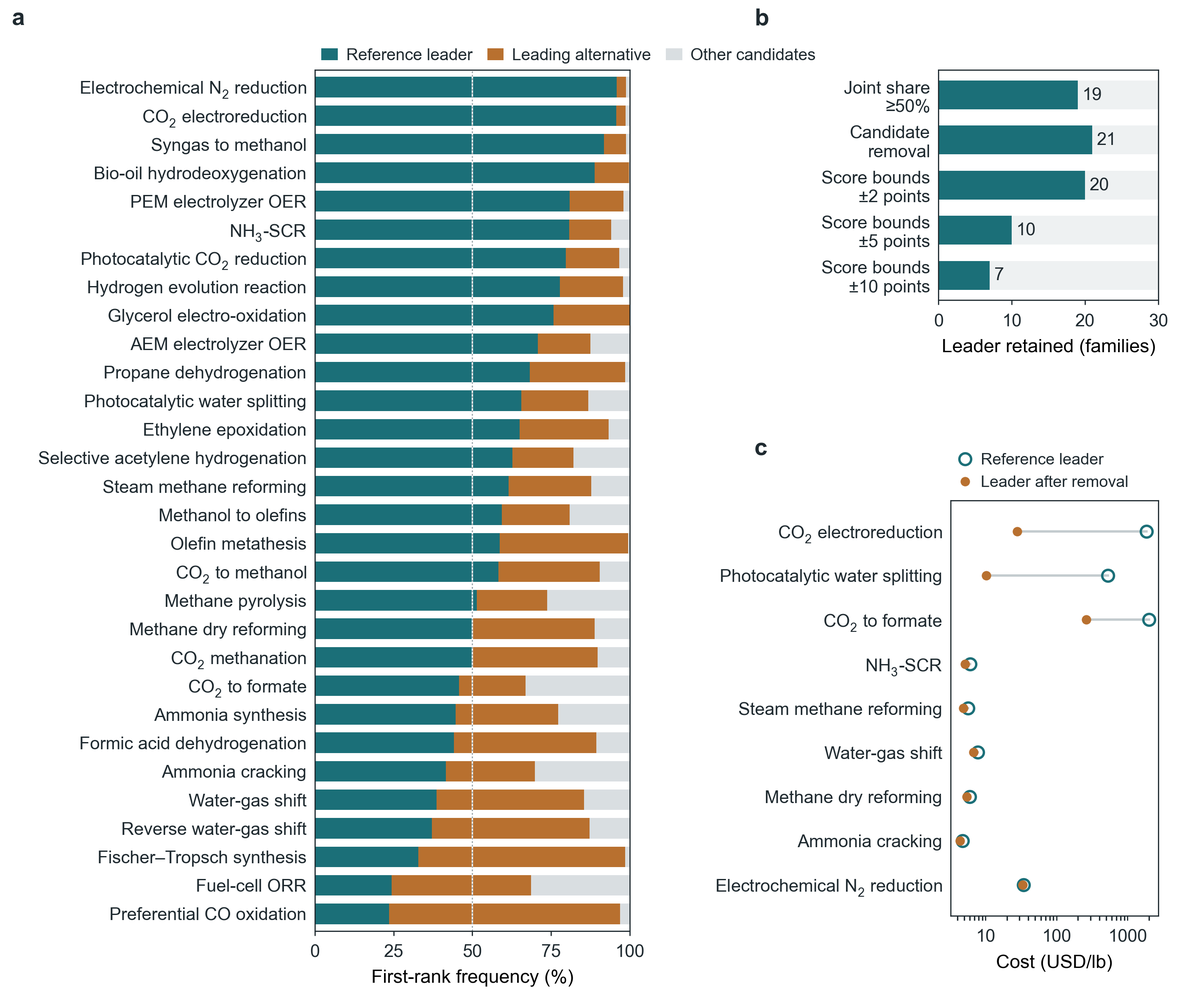
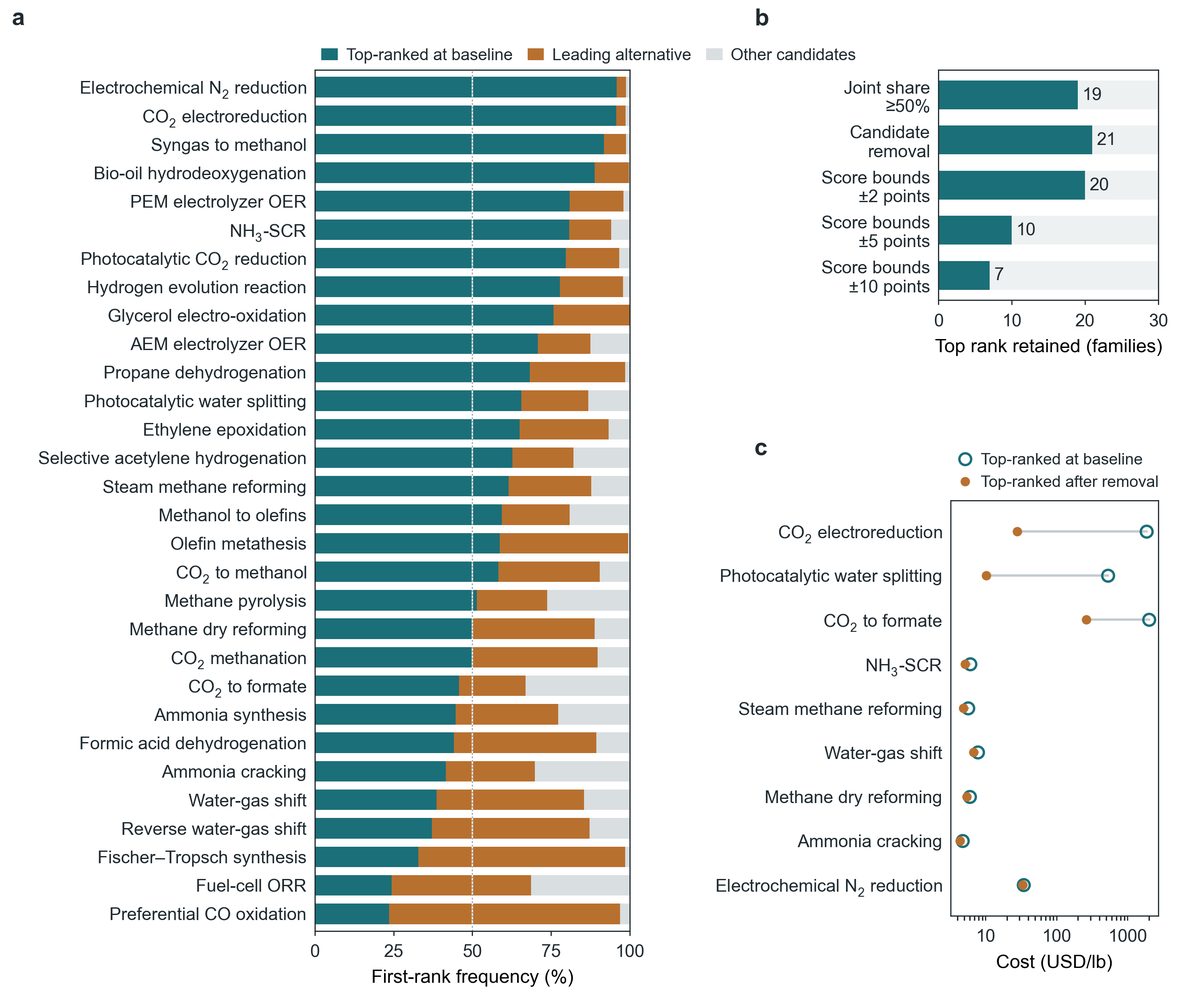
docs(paper): clarify candidates ranked first at baseline

Changed region(s): [[0.2793, 0.0309, 0.7139, 0.0618], [0.838, 0.4327, 0.9622, 0.4945], [0.776, 0.34, 0.9932, 0.3709]]

diff --git a/scripts/build_application_note.py b/scripts/build_application_note.py
@@ -97,7 +97,7 @@ COMET runs locally without a user account. A FastAPI backend on Python 3.11 or n
 
 The cost model and its outputs are summarized in Figure 2. Each cost entry records the price, source, quote date, reliability grade and price basis, together with the status of the associated manufacturing operation. In the recorded spot-price example, a 20 wt% Ni/Al₂O₃ catalyst prepared by incipient-wetness impregnation at an order size of {ex('request.order_size_tons', '.0f')} short tons has an estimated selling price of {ex('step_method.estimated_price_per_lb', '.2f')} USD/lb. Nickel and processing contribute {ex('materials.components[0].cost_per_lb_cat', '.2f')} and {ex('step_method.processing_cost_per_lb', '.2f')} USD/lb, respectively. This result is specific to the retained price snapshot. Across the thermal families, the lowest-cost candidates differ in their materials, processing and overhead contributions (Figure 2b). CSV exports retain the price evidence and optional Monte Carlo ranges.
 
-![Figure 2. Cost calculation and reference comparisons. (a) Materials and Step Method processing costs are combined with sequential G&A and S&ARD additions and a selling-price-based margin. Order size determines both processing scale and margin. (b) Selling-price contributions of the lowest-cost candidate in each of 23 thermal reaction families at the 2026-05 reference month; values beside the bars are estimated selling prices in USD/lb. (c) Relative deviation, 100 × (estimate − market price)/market price, for the three catalysts in Table 2 of the method paper. The platinum market value excludes platinum content as specified in that table. The zeolite calculation uses the footnoted effective throughput of 67 short tons per day. (d) Historical cost of the reference-leading candidate in each thermal family divided by the corresponding U.S. import unit value for HS 3815 catalytic preparations. These candidates are selected by the reference ranking and need not be the lowest-cost candidates in (b). The nickel, precious-metal and other-active-substance categories contain 4, 3 and 16 families, respectively. The ratio axes are logarithmic. Gaps indicate missing trade observations; no interpolation is applied. Import unit values aggregate catalyst grades, loadings and order sizes and are not formulation-matched validation data. Symbols: w, mass fraction; c, component price per lb; H, summed hourly operation rates at the production scale; T, campaign days; I, index escalation; M, production mass; g, s and m, G&A, S&ARD and selling-margin fractions. The optional purchased-input recipe uses a = w/(f p y), where a is precursor mass per mass of finished catalyst, f is component fraction in the pure precursor, p is purchased purity and y is retained-component yield.](figures-note-2026-09-09/fig2_cost_model.png)
+![Figure 2. Cost calculation and reference comparisons. (a) Materials and Step Method processing costs are combined with sequential G&A and S&ARD additions and a selling-price-based margin. Order size determines both processing scale and margin. (b) Selling-price contributions of the lowest-cost candidate in each of 23 thermal reaction families at the 2026-05 reference month; values beside the bars are estimated selling prices in USD/lb. (c) Relative deviation, 100 × (estimate − market price)/market price, for the three catalysts in Table 2 of the method paper. The platinum market value excludes platinum content as specified in that table. The zeolite calculation uses the footnoted effective throughput of 67 short tons per day. (d) Historical cost of the candidate ranked first at baseline in each thermal family divided by the corresponding U.S. import unit value for HS 3815 catalytic preparations. Baseline conditions use May 2026 prices, balanced weights and the complete candidate set for each family. These candidates need not be the lowest-cost candidates in (b). The nickel, precious-metal and other-active-substance categories contain 4, 3 and 16 families, respectively. The ratio axes are logarithmic. Gaps indicate missing trade observations; no interpolation is applied. Import unit values aggregate catalyst grades, loadings and order sizes and are not formulation-matched validation data. Symbols: w, mass fraction; c, component price per lb; H, summed hourly operation rates at the production scale; T, campaign days; I, index escalation; M, production mass; g, s and m, G&A, S&ARD and selling-margin fractions. The optional purchased-input recipe uses a = w/(f p y), where a is precursor mass per mass of finished catalyst, f is component fraction in the pure precursor, p is purchased purity and y is retained-component yield.](figures-note-2026-09-09/fig2_cost_model.png)
 
 ## Cost estimation and environmental screening
 
@@ -117,11 +117,11 @@ Source-reliability grades are mapped to numeric confidence scores. A candidate's
 
 ## Candidate ranking and sensitivity analysis
 
-The library contains {rb('summary.candidates')} candidates across {rb('summary.families')} reaction families. Records include composition, preparation route, citations, screening basis (including {r('s', 'screening_basis_counts.literature_architecture_proxy')} literature-architecture proxies and {r('s', 'screening_basis_counts.engineering_proxy')} engineering proxies), and author-assigned route-readiness and performance scores. Ranking uses a weighted sum of economics, evidence, route-readiness and performance scores. Within each reaction family, min-max normalization assigns an economics score of 100 to the lowest cost and 0 to the highest cost; all candidates receive 100 when their costs coincide. Balanced, cost-prioritized, evidence-prioritized or user-defined weights determine the composite score. Ties are resolved by cost on the family's functional unit. Families with incomplete electrode inputs are compared on powder cost. The route-readiness and performance scores represent screening assumptions, not experimentally measured performance.
+The library contains {rb('summary.candidates')} candidates across {rb('summary.families')} reaction families. Records include composition, preparation route, citations, screening basis (including {r('s', 'screening_basis_counts.literature_architecture_proxy')} literature-architecture proxies and {r('s', 'screening_basis_counts.engineering_proxy')} engineering proxies), and author-assigned route-readiness and performance scores. Ranking uses a weighted sum of economics, evidence, route-readiness and performance scores. Within each reaction family, min-max normalization assigns an economics score of 100 to the lowest cost and 0 to the highest cost; all candidates receive 100 when their costs coincide. Balanced, cost-prioritized, evidence-prioritized or user-defined weights determine the composite score. Baseline rankings use May 2026 reference prices, balanced weights and the complete candidate set for each family. Ties are resolved by cost on the family's functional unit. Families with incomplete electrode inputs are compared on powder cost. The route-readiness and performance scores represent screening assumptions, not experimentally measured performance.
 
 Weighting sensitivity evaluates {r('s', 'weight_sensitivity.grid_points')} weight vectors on a simplex grid. The candidate ranked first under balanced weights retains first rank in a median {r('s', 'weight_sensitivity.median_balanced_winner_share_pct', '.2f')}% of these scenarios across families. Historical repricing evaluates {r('s', 'volatility.window.states')} monthly metal-price states from {r('s', 'volatility.window.first')} to {r('s', 'volatility.window.last')}, with support prices fixed at the reference state, and identifies single-metal break-even prices. Monte Carlo sampling applies uniform multipliers to component prices and order size within specified bounds, including 0.70 to 1.30 for active components by default. Components with the same role share a multiplier. Failed trials and their causes are reported. A specified random seed supports repeatability; omitting it produces independent samples. These ranges describe assumed input variation rather than statistical confidence intervals.
 
-The combined analysis enumerates {rb('summary.months')} monthly price states and {rb('summary.weight_points["0.05"]')} weight vectors at increments of 0.05, yielding {rb('summary.joint_scenarios_all_families["0.05"]', ',')} family-month-weight scenarios (Figure 4a,b). Outputs include first-rank frequency and mean and maximum score regret, defined as the score deficit relative to the highest-scoring candidate in each scenario. Candidate-removal tests exclude each nonleading candidate with and without recalculating the economics range. Criterion-score tests evaluate the least favourable corner of bounds of 2, 5 and 10 points. The reference leader retains first rank in a median {rb('summary.reference_winner_joint_share_median_pct', '.2f')}% of combined scenarios. Removal changes the leader in {rb('summary.candidate_removal_winner_changes')} of {rb('summary.candidate_removal_cases')} tests, and {rb('summary.rubric_robust_family_counts["5"]')} families retain the leader throughout the 5-point score bounds. Scenario frequencies are conditional on this enumeration and are not probabilities of future outcomes.
+The combined analysis enumerates {rb('summary.months')} monthly price states and {rb('summary.weight_points["0.05"]')} weight vectors at increments of 0.05, yielding {rb('summary.joint_scenarios_all_families["0.05"]', ',')} family-month-weight scenarios (Figure 4a,b). Outputs include first-rank frequency and mean and maximum score regret, defined as the score deficit relative to the highest-scoring candidate in each scenario. Candidate-removal tests exclude each nonleading candidate with and without recalculating the economics range. Criterion-score tests evaluate the least favourable corner of bounds of 2, 5 and 10 points. The candidate ranked first at baseline retains first rank in a median {rb('summary.reference_winner_joint_share_median_pct', '.2f')}% of combined scenarios. Removal changes the leader in {rb('summary.candidate_removal_winner_changes')} of {rb('summary.candidate_removal_cases')} tests, and {rb('summary.rubric_robust_family_counts["5"]')} families retain the leader throughout the 5-point score bounds. Scenario frequencies are conditional on this enumeration and are not probabilities of future outcomes.
 
 Saved estimates support comparisons of two to four cases using the stored results, a common price basis, or common prices and manufacturing conditions. These comparisons distinguish price changes from differences in formulation, route and production scale.
 
@@ -129,7 +129,7 @@ Saved estimates support comparisons of two to four cases using the stored result
 
 Implementation verification uses the materials totals, operation lists and order sizes of three published reference cases without fitting the inputs. For platinum on carbon, COMET gives {r('s', 'table62[0].comet_usd_per_lb', '.4f')} versus {r('s', 'table62[0].published_usd_per_lb', '.2f')} USD/lb. For nickel on alumina, the result is {r('s', 'table62[1].comet_usd_per_lb', '.4f')} versus {r('s', 'table62[1].published_usd_per_lb', '.2f')} USD/lb ({r('s', 'table62[1].residual_pct', '+.2f')}%). The latter difference arises from applying the published size-dependent margin correlation instead of the fixed margin specified in the table footnote. The zeolite cracking catalyst gives {r('s', 'table62[2].comet_usd_per_lb', '.4f')} versus {r('s', 'table62[2].published_usd_per_lb', '.2f')} USD/lb ({r('s', 'table62[2].residual_pct', '+.2f')}%) at the footnote's effective production rate of {r('s', 'table62[2].effective_rate_ton_per_day', '.0f')} short tons per day. Intermediate processing and overhead calculations reproduce the tabulated values at the reported precision.
 
-The method paper also reports market prices for these reference catalysts.<sup>1</sup> COMET deviates from the reported prices by {mk('[0].market.comet_vs_market_pct', '.1f')}% for platinum on carbon and {mk('[1].market.comet_vs_market_pct', '.1f')}% for nickel on alumina. For the cracking catalyst, the estimate is {mk('[2].with_published_rate.estimated_price_per_lb', '.4f')} versus a reported price of {mk('[2].market.market_price_per_lb', '.2f')} USD/lb (Figure 2c). Both COMET and the published method estimates are below the three market values. The original study reported agreement within ±20% using prices obtained through personal communications with industry experts. The COMET results fall within that interval, but these observations do not establish the cause of the residuals or the accuracy of estimates for other formulations. Category-level trade statistics provide a separate comparison. U.S. monthly import unit values for HS 3815 subheadings aggregate catalytic preparations by active substance.<sup>10</sup> Figure 2d compares these unit values with historical costs of the reference-leading candidate in each thermal family. The ratios vary across families and months and can differ substantially from unity. Differences in catalyst grade, loading, formulation and order size prevent interpretation of these ratios as formulation-matched validation errors.
+The method paper also reports market prices for these reference catalysts.<sup>1</sup> COMET deviates from the reported prices by {mk('[0].market.comet_vs_market_pct', '.1f')}% for platinum on carbon and {mk('[1].market.comet_vs_market_pct', '.1f')}% for nickel on alumina. For the cracking catalyst, the estimate is {mk('[2].with_published_rate.estimated_price_per_lb', '.4f')} versus a reported price of {mk('[2].market.market_price_per_lb', '.2f')} USD/lb (Figure 2c). Both COMET and the published method estimates are below the three market values. The original study reported agreement within ±20% using prices obtained through personal communications with industry experts. The COMET results fall within that interval, but these observations do not establish the cause of the residuals or the accuracy of estimates for other formulations. Category-level trade statistics provide a separate comparison. U.S. monthly import unit values for HS 3815 subheadings aggregate catalytic preparations by active substance.<sup>10</sup> Figure 2d compares these unit values with historical costs of the candidate ranked first at baseline in each thermal family. The ratios vary across families and months and can differ substantially from unity. Differences in catalyst grade, loading, formulation and order size prevent interpretation of these ratios as formulation-matched validation errors.
 
 The reference cases assess implementation consistency and deviations from three published market prices. The trade comparison provides category-level context. Neither comparison bounds the error of a new formulation, for which no condition-matched industrial observation was identified.
 
@@ -141,7 +141,7 @@ Ammonia cracking provides a case study of candidate-set sensitivity. At the refe
 
 Removing Ru/MgO leaves all surviving candidate costs unchanged but reduces the cost range from approximately 1,262 to 1.5 USD/lb. Recomputing min-max normalization therefore increases the economic-score difference associated with the 0.38 USD/lb cost difference between the cobalt candidate and Ni/Al₂O₃. The cobalt composite decreases to {ms('normalization.example.rows[0].total_after', '.1f')}, whereas the Ni/Al₂O₃ score remains {ms('normalization.example.rows[2].total_after', '.1f')}, reversing their ranking (Figure 4c). Retaining the original normalization range preserves the cobalt candidate's first rank. This behaviour is consistent with known rank reversal in normalized weighted-sum methods.<sup>11,12</sup> The example identifies a dependence on candidate-set normalization without a change in the underlying cost estimates.
 
-![Figure 4. Sensitivity of candidate rankings to price, weighting, candidate-set and criterion-score assumptions. (a) First-rank frequencies across the enumerated price-weight scenarios for the reference leader, the alternative with the highest first-rank frequency, and all other candidates combined. The leading alternative is not necessarily second-ranked at the reference conditions. (b) Number of the 30 reaction families retaining the reference leader under each criterion: first-rank frequency ≥50% in the combined scenarios, removal of any single nonleading candidate, or the least favourable corner of the indicated criterion-score bounds. (c) Reference-price costs of the original leader (open circles) and the leader after candidate removal (filled circles) for the nine families with a rank reversal. Costs are shown on a logarithmic axis. All surviving candidates retain their original costs; removal changes the range used for economic-score normalization. Nearly coincident markers indicate that small cost differences can accompany a change in the highest-ranked candidate. Ammonia cracking is examined in the text.](figures-note-2026-09-09/fig4_decision_diagnostics.png)
+![Figure 4. Sensitivity of candidate rankings to price, weighting, candidate-set and criterion-score assumptions. (a) First-rank frequencies across the enumerated price-weight scenarios for the candidate ranked first at baseline (May 2026 prices, balanced weights and the complete candidate set), the alternative with the highest first-rank frequency, and all other candidates combined. The leading alternative is not necessarily second-ranked at the reference conditions. (b) Number of the 30 reaction families retaining the same top-ranked candidate as at baseline under each criterion: first-rank frequency ≥50% in the combined scenarios, removal of any single nonleading candidate, or the least favourable corner of the indicated criterion-score bounds. (c) Reference-price costs of the candidates ranked first at baseline (open circles) and after candidate removal (filled circles) for the nine families with a rank reversal. Costs are shown on a logarithmic axis. All surviving candidates retain their original costs; removal changes the range used for economic-score normalization. Nearly coincident markers indicate that small cost differences can accompany a change in the highest-ranked candidate. Ammonia cracking is examined in the text.](figures-note-2026-09-09/fig4_decision_diagnostics.png)
 
 ## Limitations
 

diff --git a/scripts/draw_application_note_figures.py b/scripts/draw_application_note_figures.py
@@ -58,16 +58,16 @@ TEXT = {
         "market_ratio_y": "Estimate ÷ traded unit value",
         "market_titles": {"nickel": "Nickel catalysts", "precious": "Precious-metal catalysts", "other": "Other active substances"},
         "market_traded": "Import unit value (= 1)",
-        "market_estimate": "Reference-leading candidates",
+        "market_estimate": "Top-ranked candidates at baseline",
         "unit_lb": "USD/lb",
         "metals_base": "Base metals", "metals_precious": "Precious metals", "metal_price": "Price",
-        "f3_first": "Reference leader", "f3_second": "Leading alternative",
+        "f3_first": "Top-ranked at baseline", "f3_second": "Leading alternative",
         "f3_other": "Other candidates", "f3_x": "First-rank frequency (%)",
         "f3_tests": ["Joint share\n≥50%", "Candidate\nremoval", "Score bounds\n±2 points",
                      "Score bounds\n±5 points", "Score bounds\n±10 points"],
-        "f3_b_x": "Leader retained (families)",
+        "f3_b_x": "Top rank retained (families)",
         "f3_c_x": "Cost (USD/lb)",
-        "f3_before": "Reference leader", "f3_after": "Leader after removal",
+        "f3_before": "Top-ranked at baseline", "f3_after": "Top-ranked after removal",
         "usd_lb": "USD/lb",
     },
     "ko": {

diff --git a/docs/paper/application-note-2026-09-09.md b/docs/paper/application-note-2026-09-09.md
@@ -26,7 +26,7 @@ COMET runs locally without a user account. A FastAPI backend on Python 3.11 or n
 
 The cost model and its outputs are summarized in Figure 2. Each cost entry records the price, source, quote date, reliability grade and price basis, together with the status of the associated manufacturing operation. In the recorded spot-price example, a 20 wt% Ni/Al₂O₃ catalyst prepared by incipient-wetness impregnation at an order size of 20<!-- figures-note-2026-09-09/screen_result_ni_al2o3.json:request.order_size_tons --> short tons has an estimated selling price of 5.21<!-- figures-note-2026-09-09/screen_result_ni_al2o3.json:step_method.estimated_price_per_lb --> USD/lb. Nickel and processing contribute 1.51<!-- figures-note-2026-09-09/screen_result_ni_al2o3.json:materials.components[0].cost_per_lb_cat --> and 1.68<!-- figures-note-2026-09-09/screen_result_ni_al2o3.json:step_method.processing_cost_per_lb --> USD/lb, respectively. This result is specific to the retained price snapshot. Across the thermal families, the lowest-cost candidates differ in their materials, processing and overhead contributions (Figure 2b). CSV exports retain the price evidence and optional Monte Carlo ranges.
 
-![Figure 2. Cost calculation and reference comparisons. (a) Materials and Step Method processing costs are combined with sequential G&A and S&ARD additions and a selling-price-based margin. Order size determines both processing scale and margin. (b) Selling-price contributions of the lowest-cost candidate in each of 23 thermal reaction families at the 2026-05 reference month; values beside the bars are estimated selling prices in USD/lb. (c) Relative deviation, 100 × (estimate − market price)/market price, for the three catalysts in Table 2 of the method paper. The platinum market value excludes platinum content as specified in that table. The zeolite calculation uses the footnoted effective throughput of 67 short tons per day. (d) Historical cost of the reference-leading candidate in each thermal family divided by the corresponding U.S. import unit value for HS 3815 catalytic preparations. These candidates are selected by the reference ranking and need not be the lowest-cost candidates in (b). The nickel, precious-metal and other-active-substance categories contain 4, 3 and 16 families, respectively. The ratio axes are logarithmic. Gaps indicate missing trade observations; no interpolation is applied. Import unit values aggregate catalyst grades, loadings and order sizes and are not formulation-matched validation data. Symbols: w, mass fraction; c, component price per lb; H, summed hourly operation rates at the production scale; T, campaign days; I, index escalation; M, production mass; g, s and m, G&A, S&ARD and selling-margin fractions. The optional purchased-input recipe uses a = w/(f p y), where a is precursor mass per mass of finished catalyst, f is component fraction in the pure precursor, p is purchased purity and y is retained-component yield.](figures-note-2026-09-09/fig2_cost_model.png)
+![Figure 2. Cost calculation and reference comparisons. (a) Materials and Step Method processing costs are combined with sequential G&A and S&ARD additions and a selling-price-based margin. Order size determines both processing scale and margin. (b) Selling-price contributions of the lowest-cost candidate in each of 23 thermal reaction families at the 2026-05 reference month; values beside the bars are estimated selling prices in USD/lb. (c) Relative deviation, 100 × (estimate − market price)/market price, for the three catalysts in Table 2 of the method paper. The platinum market value excludes platinum content as specified in that table. The zeolite calculation uses the footnoted effective throughput of 67 short tons per day. (d) Historical cost of the candidate ranked first at baseline in each thermal family divided by the corresponding U.S. import unit value for HS 3815 catalytic preparations. Baseline conditions use May 2026 prices, balanced weights and the complete candidate set for each family. These candidates need not be the lowest-cost candidates in (b). The nickel, precious-metal and other-active-substance categories contain 4, 3 and 16 families, respectively. The ratio axes are logarithmic. Gaps indicate missing trade observations; no interpolation is applied. Import unit values aggregate catalyst grades, loadings and order sizes and are not formulation-matched validation data. Symbols: w, mass fraction; c, component price per lb; H, summed hourly operation rates at the production scale; T, campaign days; I, index escalation; M, production mass; g, s and m, G&A, S&ARD and selling-margin fractions. The optional purchased-input recipe uses a = w/(f p y), where a is precursor mass per mass of finished catalyst, f is component fraction in the pure precursor, p is purchased purity and y is retained-component yield.](figures-note-2026-09-09/fig2_cost_model.png)
 
 ## Cost estimation and environmental screening
 
@@ -46,11 +46,11 @@ Source-reliability grades are mapped to numeric confidence scores. A candidate's
 
 ## Candidate ranking and sensitivity analysis
 
-The library contains 116<!-- robustness-2026-09-08/decision_robustness.json:summary.candidates --> candidates across 30<!-- robustness-2026-09-08/decision_robustness.json:summary.families --> reaction families. Records include composition, preparation route, citations, screening basis (including 83<!-- submission-2026-09-08/paper_summary_2026-09-08.json:screening_basis_counts.literature_architecture_proxy --> literature-architecture proxies and 29<!-- submission-2026-09-08/paper_summary_2026-09-08.json:screening_basis_counts.engineering_proxy --> engineering proxies), and author-assigned route-readiness and performance scores. Ranking uses a weighted sum of economics, evidence, route-readiness and performance scores. Within each reaction family, min-max normalization assigns an economics score of 100 to the lowest cost and 0 to the highest cost; all candidates receive 100 when their costs coincide. Balanced, cost-prioritized, evidence-prioritized or user-defined weights determine the composite score. Ties are resolved by cost on the family's functional unit. Families with incomplete electrode inputs are compared on powder cost. The route-readiness and performance scores represent screening assumptions, not experimentally measured performance.
+The library contains 116<!-- robustness-2026-09-08/decision_robustness.json:summary.candidates --> candidates across 30<!-- robustness-2026-09-08/decision_robustness.json:summary.families --> reaction families. Records include composition, preparation route, citations, screening basis (including 83<!-- submission-2026-09-08/paper_summary_2026-09-08.json:screening_basis_counts.literature_architecture_proxy --> literature-architecture proxies and 29<!-- submission-2026-09-08/paper_summary_2026-09-08.json:screening_basis_counts.engineering_proxy --> engineering proxies), and author-assigned route-readiness and performance scores. Ranking uses a weighted sum of economics, evidence, route-readiness and performance scores. Within each reaction family, min-max normalization assigns an economics score of 100 to the lowest cost and 0 to the highest cost; all candidates receive 100 when their costs coincide. Balanced, cost-prioritized, evidence-prioritized or user-defined weights determine the composite score. Baseline rankings use May 2026 reference prices, balanced weights and the complete candidate set for each family. Ties are resolved by cost on the family's functional unit. Families with incomplete electrode inputs are compared on powder cost. The route-readiness and performance scores represent screening assumptions, not experimentally measured performance.
 
 Weighting sensitivity evaluates 286<!-- submission-2026-09-08/paper_summary_2026-09-08.json:weight_sensitivity.grid_points --> weight vectors on a simplex grid. The candidate ranked first under balanced weights retains first rank in a median 57.17<!-- submission-2026-09-08/paper_summary_2026-09-08.json:weight_sensitivity.median_balanced_winner_share_pct -->% of these scenarios across families. Historical repricing evaluates 89<!-- submission-2026-09-08/paper_summary_2026-09-08.json:volatility.window.states --> monthly metal-price states from 2019-01-31<!-- submission-2026-09-08/paper_summary_2026-09-08.json:volatility.window.first --> to 2026-05-31<!-- submission-2026-09-08/paper_summary_2026-09-08.json:volatility.window.last -->, with support prices fixed at the reference state, and identifies single-metal break-even prices. Monte Carlo sampling applies uniform multipliers to component prices and order size within specified bounds, including 0.70 to 1.30 for active components by default. Components with the same role share a multiplier. Failed trials and their causes are reported. A specified random seed supports repeatability; omitting it produces independent samples. These ranges describe assumed input variation rather than statistical confidence intervals.
 
-The combined analysis enumerates 89<!-- robustness-2026-09-08/decision_robustness.json:summary.months --> monthly price states and 1771<!-- robustness-2026-09-08/decision_robustness.json:summary.weight_points["0.05"] --> weight vectors at increments of 0.05, yielding 4,728,570<!-- robustness-2026-09-08/decision_robustness.json:summary.joint_scenarios_all_families["0.05"] --> family-month-weight scenarios (Figure 4a,b). Outputs include first-rank frequency and mean and maximum score regret, defined as the score deficit relative to the highest-scoring candidate in each scenario. Candidate-removal tests exclude each nonleading candidate with and without recalculating the economics range. Criterion-score tests evaluate the least favourable corner of bounds of 2, 5 and 10 points. The reference leader retains first rank in a median 60.50<!-- robustness-2026-09-08/decision_robustness.json:summary.reference_winner_joint_share_median_pct -->% of combined scenarios. Removal changes the leader in 9<!-- robustness-2026-09-08/decision_robustness.json:summary.candidate_removal_winner_changes --> of 86<!-- robustness-2026-09-08/decision_robustness.json:summary.candidate_removal_cases --> tests, and 10<!-- robustness-2026-09-08/decision_robustness.json:summary.rubric_robust_family_counts["5"] --> families retain the leader throughout the 5-point score bounds. Scenario frequencies are conditional on this enumeration and are not probabilities of future outcomes.
+The combined analysis enumerates 89<!-- robustness-2026-09-08/decision_robustness.json:summary.months --> monthly price states and 1771<!-- robustness-2026-09-08/decision_robustness.json:summary.weight_points["0.05"] --> weight vectors at increments of 0.05, yielding 4,728,570<!-- robustness-2026-09-08/decision_robustness.json:summary.joint_scenarios_all_families["0.05"] --> family-month-weight scenarios (Figure 4a,b). Outputs include first-rank frequency and mean and maximum score regret, defined as the score deficit relative to the highest-scoring candidate in each scenario. Candidate-removal tests exclude each nonleading candidate with and without recalculating the economics range. Criterion-score tests evaluate the least favourable corner of bounds of 2, 5 and 10 points. The candidate ranked first at baseline retains first rank in a median 60.50<!-- robustness-2026-09-08/decision_robustness.json:summary.reference_winner_joint_share_median_pct -->% of combined scenarios. Removal changes the leader in 9<!-- robustness-2026-09-08/decision_robustness.json:summary.candidate_removal_winner_changes --> of 86<!-- robustness-2026-09-08/decision_robustness.json:summary.candidate_removal_cases --> tests, and 10<!-- robustness-2026-09-08/decision_robustness.json:summary.rubric_robust_family_counts["5"] --> families retain the leader throughout the 5-point score bounds. Scenario frequencies are conditional on this enumeration and are not probabilities of future outcomes.
 
 Saved estimates support comparisons of two to four cases using the stored results, a common price basis, or common prices and manufacturing conditions. These comparisons distinguish price changes from differences in formulation, route and production scale.
 
@@ -58,7 +58,7 @@ Saved estimates support comparisons of two to four cases using the stored result
 
 Implementation verification uses the materials totals, operation lists and order sizes of three published reference cases without fitting the inputs. For platinum on carbon, COMET gives 27.3695<!-- submission-2026-09-08/paper_summary_2026-09-08.json:table62[0].comet_usd_per_lb --> versus 27.37<!-- submission-2026-09-08/paper_summary_2026-09-08.json:table62[0].published_usd_per_lb --> USD/lb. For nickel on alumina, the result is 19.2206<!-- submission-2026-09-08/paper_summary_2026-09-08.json:table62[1].comet_usd_per_lb --> versus 20.59<!-- submission-2026-09-08/paper_summary_2026-09-08.json:table62[1].published_usd_per_lb --> USD/lb (-6.65<!-- submission-2026-09-08/paper_summary_2026-09-08.json:table62[1].residual_pct -->%). The latter difference arises from applying the published size-dependent margin correlation instead of the fixed margin specified in the table footnote. The zeolite cracking catalyst gives 2.4380<!-- submission-2026-09-08/paper_summary_2026-09-08.json:table62[2].comet_usd_per_lb --> versus 2.41<!-- submission-2026-09-08/paper_summary_2026-09-08.json:table62[2].published_usd_per_lb --> USD/lb (+1.16<!-- submission-2026-09-08/paper_summary_2026-09-08.json:table62[2].residual_pct -->%) at the footnote's effective production rate of 67<!-- submission-2026-09-08/paper_summary_2026-09-08.json:table62[2].effective_rate_ton_per_day --> short tons per day. Intermediate processing and overhead calculations reproduce the tabulated values at the reported precision.
 
-The method paper also reports market prices for these reference catalysts.<sup>1</sup> COMET deviates from the reported prices by -19.7<!-- submission-2026-09-08/table62_reproduction_2026-09-08.json:[0].market.comet_vs_market_pct -->% for platinum on carbon and -9.9<!-- submission-2026-09-08/table62_reproduction_2026-09-08.json:[1].market.comet_vs_market_pct -->% for nickel on alumina. For the cracking catalyst, the estimate is 2.4380<!-- submission-2026-09-08/table62_reproduction_2026-09-08.json:[2].with_published_rate.estimated_price_per_lb --> versus a reported price of 2.73<!-- submission-2026-09-08/table62_reproduction_2026-09-08.json:[2].market.market_price_per_lb --> USD/lb (Figure 2c). Both COMET and the published method estimates are below the three market values. The original study reported agreement within ±20% using prices obtained through personal communications with industry experts. The COMET results fall within that interval, but these observations do not establish the cause of the residuals or the accuracy of estimates for other formulations. Category-level trade statistics provide a separate comparison. U.S. monthly import unit values for HS 3815 subheadings aggregate catalytic preparations by active substance.<sup>10</sup> Figure 2d compares these unit values with historical costs of the reference-leading candidate in each thermal family. The ratios vary across families and months and can differ substantially from unity. Differences in catalyst grade, loading, formulation and order size prevent interpretation of these ratios as formulation-matched validation errors.
+The method paper also reports market prices for these reference catalysts.<sup>1</sup> COMET deviates from the reported prices by -19.7<!-- submission-2026-09-08/table62_reproduction_2026-09-08.json:[0].market.comet_vs_market_pct -->% for platinum on carbon and -9.9<!-- submission-2026-09-08/table62_reproduction_2026-09-08.json:[1].market.comet_vs_market_pct -->% for nickel on alumina. For the cracking catalyst, the estimate is 2.4380<!-- submission-2026-09-08/table62_reproduction_2026-09-08.json:[2].with_published_rate.estimated_price_per_lb --> versus a reported price of 2.73<!-- submission-2026-09-08/table62_reproduction_2026-09-08.json:[2].market.market_price_per_lb --> USD/lb (Figure 2c). Both COMET and the published method estimates are below the three market values. The original study reported agreement within ±20% using prices obtained through personal communications with industry experts. The COMET results fall within that interval, but these observations do not establish the cause of the residuals or the accuracy of estimates for other formulations. Category-level trade statistics provide a separate comparison. U.S. monthly import unit values for HS 3815 subheadings aggregate catalytic preparations by active substance.<sup>10</sup> Figure 2d compares these unit values with historical costs of the candidate ranked first at baseline in each thermal family. The ratios vary across families and months and can differ substantially from unity. Differences in catalyst grade, loading, formulation and order size prevent interpretation of these ratios as formulation-matched validation errors.
 
 The reference cases assess implementation consistency and deviations from three published market prices. The trade comparison provides category-level context. Neither comparison bounds the error of a new formulation, for which no condition-matched industrial observation was identified.
 
@@ -70,7 +70,7 @@ Ammonia cracking provides a case study of candidate-set sensitivity. At the refe
 
 Removing Ru/MgO leaves all surviving candidate costs unchanged but reduces the cost range from approximately 1,262 to 1.5 USD/lb. Recomputing min-max normalization therefore increases the economic-score difference associated with the 0.38 USD/lb cost difference between the cobalt candidate and Ni/Al₂O₃. The cobalt composite decreases to 77.4<!-- methods-2026-09-09/methods_study.json:normalization.example.rows[0].total_after -->, whereas the Ni/Al₂O₃ score remains 87.3<!-- methods-2026-09-09/methods_study.json:normalization.example.rows[2].total_after -->, reversing their ranking (Figure 4c). Retaining the original normalization range preserves the cobalt candidate's first rank. This behaviour is consistent with known rank reversal in normalized weighted-sum methods.<sup>11,12</sup> The example identifies a dependence on candidate-set normalization without a change in the underlying cost estimates.
 
-![Figure 4. Sensitivity of candidate rankings to price, weighting, candidate-set and criterion-score assumptions. (a) First-rank frequencies across the enumerated price-weight scenarios for the reference leader, the alternative with the highest first-rank frequency, and all other candidates combined. The leading alternative is not necessarily second-ranked at the reference conditions. (b) Number of the 30 reaction families retaining the reference leader under each criterion: first-rank frequency ≥50% in the combined scenarios, removal of any single nonleading candidate, or the least favourable corner of the indicated criterion-score bounds. (c) Reference-price costs of the original leader (open circles) and the leader after candidate removal (filled circles) for the nine families with a rank reversal. Costs are shown on a logarithmic axis. All surviving candidates retain their original costs; removal changes the range used for economic-score normalization. Nearly coincident markers indicate that small cost differences can accompany a change in the highest-ranked candidate. Ammonia cracking is examined in the text.](figures-note-2026-09-09/fig4_decision_diagnostics.png)
+![Figure 4. Sensitivity of candidate rankings to price, weighting, candidate-set and criterion-score assumptions. (a) First-rank frequencies across the enumerated price-weight scenarios for the candidate ranked first at baseline (May 2026 prices, balanced weights and the complete candidate set), the alternative with the highest first-rank frequency, and all other candidates combined. The leading alternative is not necessarily second-ranked at the reference conditions. (b) Number of the 30 reaction families retaining the same top-ranked candidate as at baseline under each criterion: first-rank frequency ≥50% in the combined scenarios, removal of any single nonleading candidate, or the least favourable corner of the indicated criterion-score bounds. (c) Reference-price costs of the candidates ranked first at baseline (open circles) and after candidate removal (filled circles) for the nine families with a rank reversal. Costs are shown on a logarithmic axis. All surviving candidates retain their original costs; removal changes the range used for economic-score normalization. Nearly coincident markers indicate that small cost differences can accompany a change in the highest-ranked candidate. Ammonia cracking is examined in the text.](figures-note-2026-09-09/fig4_decision_diagnostics.png)
 
 ## Limitations
 
